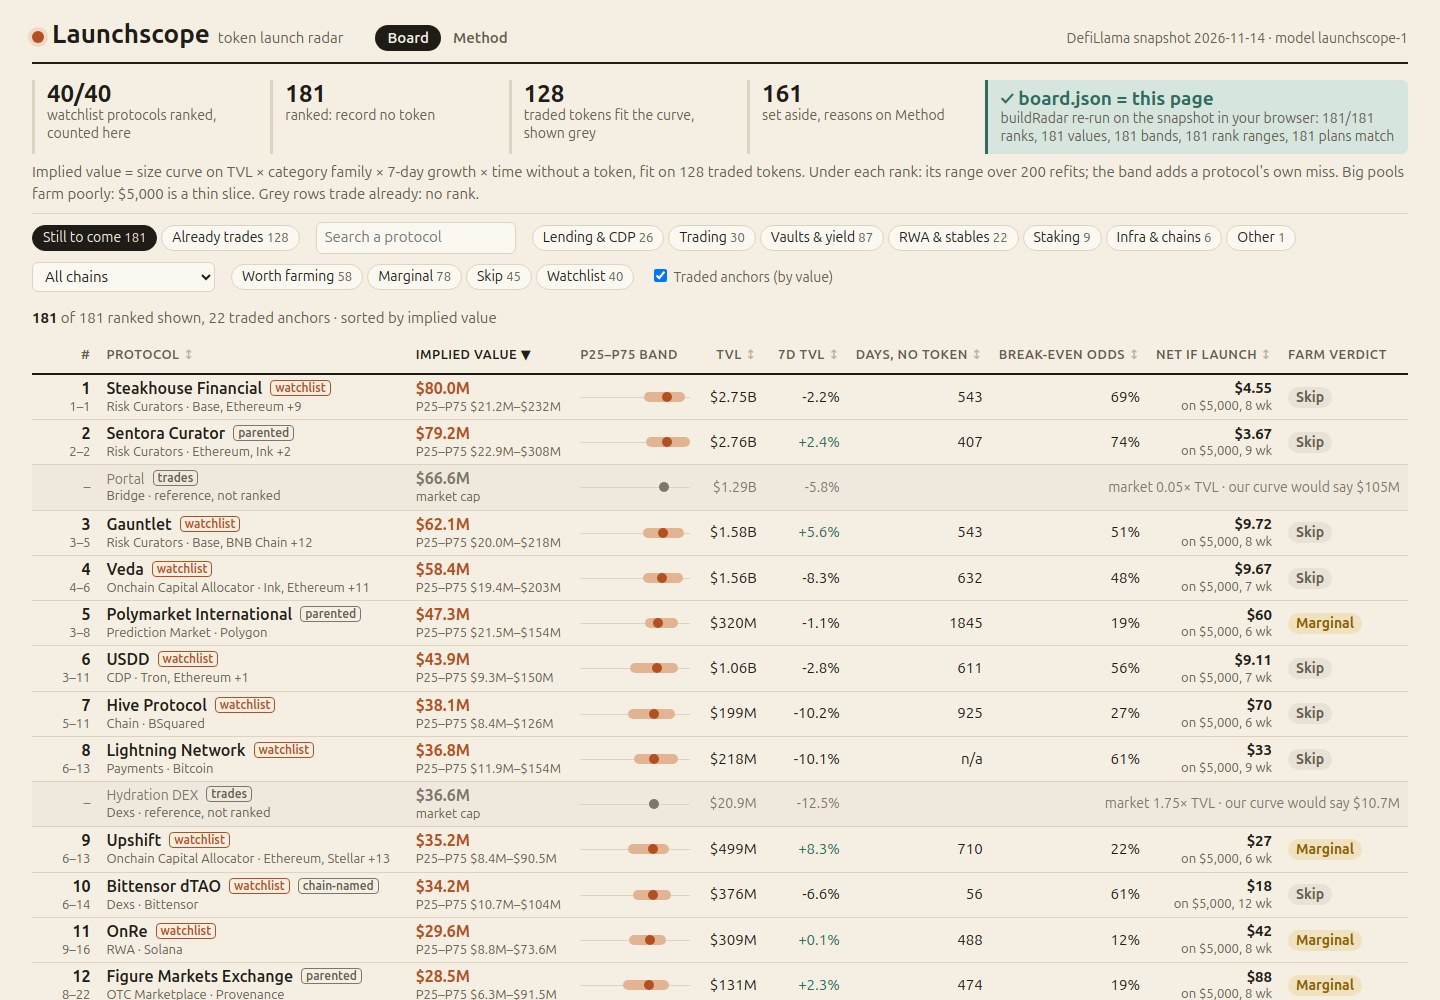
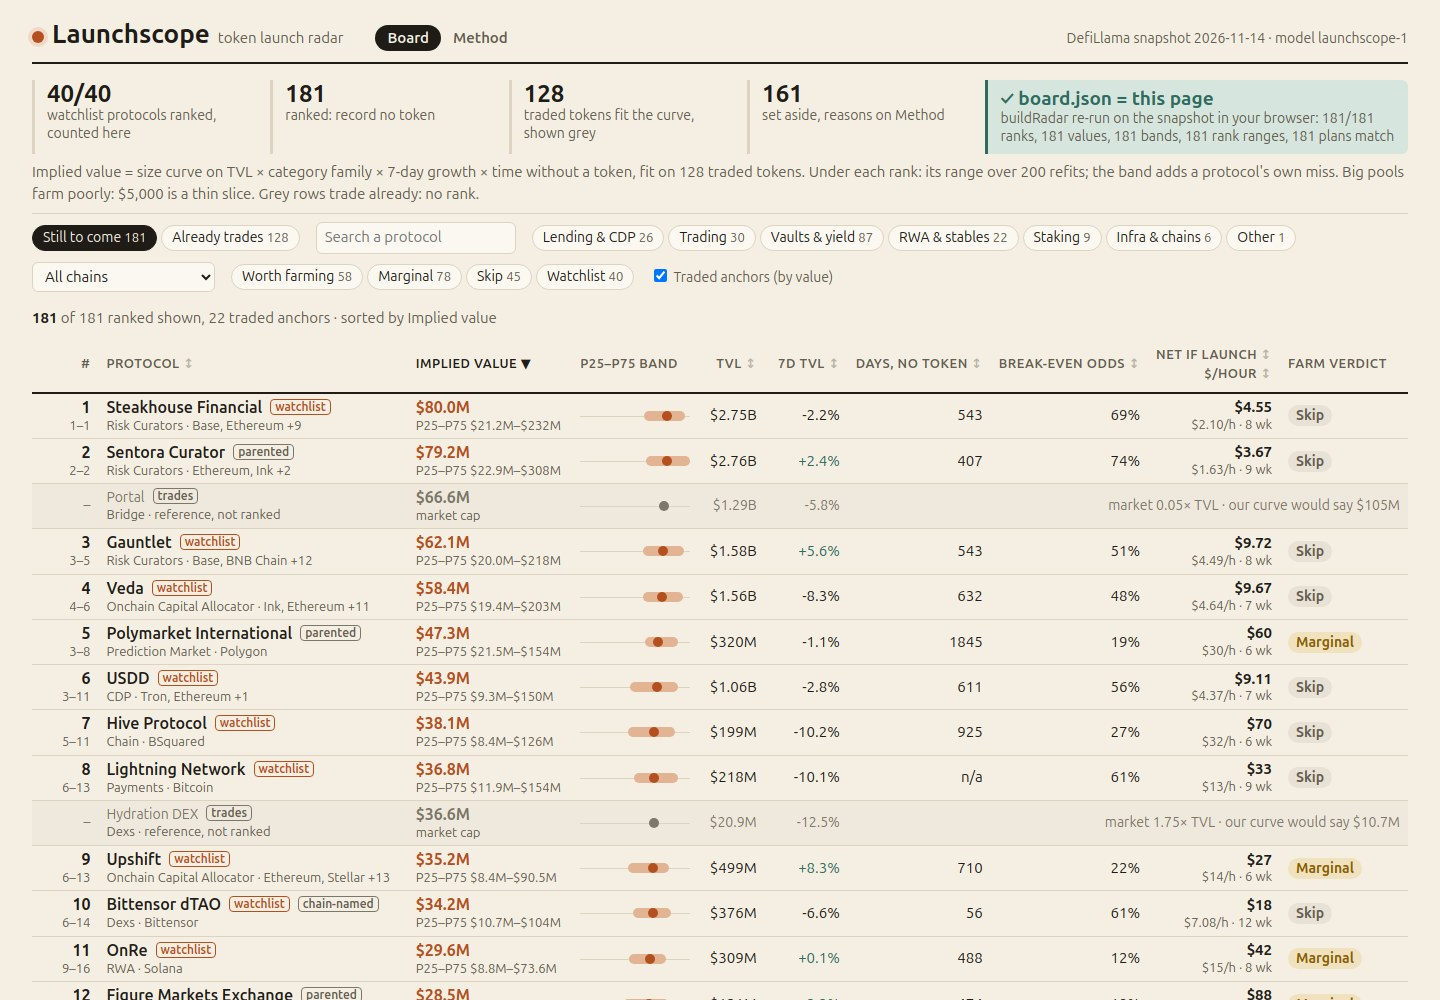
Board and detail: bring back net per hour of your time, sortable
farmPlan returns perHour again (net if a token launches / active hours). The
board shows it under each net figure and sorts by it from a second header
target; the detail totals show it beside the break-even odds.

diff --git a/dashboard/radar.js b/dashboard/radar.js
@@ -37,9 +37,9 @@
   const DEFAULTS = { tab: '', fam: '', chain: '', verdict: '', watch: '', q: '', anchors: '1', sort: 'value', dir: 'desc' };
   const SORTS = {
     value: (r) => r.iv.value, name: (r) => r.name.toLowerCase(), tvl: (r) => r.tvl_usd, growth: (r) => (r.change_7d === null ? -1e9 : r.change_7d),
-    days: (r) => (r.iv.days === null ? -1 : r.iv.days), odds: (r) => r.plan.breakEven, net: (r) => r.plan.net,
+    days: (r) => (r.iv.days === null ? -1 : r.iv.days), odds: (r) => r.plan.breakEven, net: (r) => r.plan.net, perhour: (r) => r.plan.perHour,
   };
-  const HEAD = { name: 'Protocol', value: 'Implied value', tvl: 'TVL', growth: '7d TVL', days: 'Days, no token', odds: 'Break-even odds', net: 'Net if launch' };
+  const HEAD = { name: 'Protocol', value: 'Implied value', tvl: 'TVL', growth: '7d TVL', days: 'Days, no token', odds: 'Break-even odds', net: 'Net if launch', perhour: '$/hour' };
 
   function readHash() {
     const h = decodeURIComponent(location.hash.slice(1));
@@ -103,7 +103,7 @@
   const NOTE_TAG = { off: 'parented', named: 'chain-named', shares: 'name shared' };
   function rowHtml(r) {
     const p = r.plan, tag = r.note && NOTE_TAG[r.note.split(' ')[0]];
-    const net = p.net < 0 ? `<td class="num neg"><b>needs ${L.usd(r.iv.value * p.breakEven)}</b><small>launch value to pay</small></td>` : `<td class="num"><b>${L.usd(p.net)}</b><small>on ${L.usd(p.deposit)}, ${p.weeks} wk</small></td>`;
+    const net = p.net < 0 ? `<td class="num neg"><b>needs ${L.usd(r.iv.value * p.breakEven)}</b><small>launch value to pay</small></td>` : `<td class="num"><b>${L.usd(p.net)}</b><small>${L.usd(p.perHour)}/h · ${p.weeks} wk</small></td>`;
     return `<tr class="ranked" data-slug="${esc(r.slug)}"><td class="rk"><b>${r.rank}</b><small>${r.boot.rankLo}–${r.boot.rankHi}</small></td>
       <td class="name"><a href="#p/${esc(r.slug)}">${esc(r.name)}</a>${r.watch ? '<i class="tag">watchlist</i>' : ''}${tag ? `<i class="tag grey" title="${esc(r.note)}">${tag}</i>` : ''}<small>${esc(r.category || 'no category')} · ${esc(r.chains.slice(0, 2).map(L.chainName).join(', '))}${r.chains.length > 2 ? ` +${r.chains.length - 2}` : ''}</small></td>
       <td class="val"><b>${L.usd(r.iv.value)}</b><small>P25–P75 ${L.usd(r.boot.p25)}–${L.usd(r.boot.p75)}</small></td><td>${bandBar(r)}</td>
@@ -149,7 +149,7 @@
       <div id="results"></div>`;
     renderResults(st);
     $('#view').onclick = (e) => {
-      const b = e.target.closest('button.chip, th[data-s], button.x');
+      const b = e.target.closest('button.chip, [data-s], button.x');
       if (b && b.dataset.k) { st[b.dataset.k] = st[b.dataset.k] === b.dataset.v ? '' : b.dataset.v; return update(st, true); }
       if (b && b.dataset.s) { st.dir = st.sort === b.dataset.s && st.dir === 'desc' ? 'asc' : b.dataset.s === 'odds' || b.dataset.s === 'name' ? 'asc' : 'desc'; st.sort = b.dataset.s; return update(st, true); }
       const tr = e.target.closest('tr.ranked');
@@ -179,9 +179,10 @@
       const label = k === 'fam' ? L.FAMILY_LABEL[st.fam] : k === 'verdict' ? L.VERDICT_LABEL[st.verdict] : k === 'watch' ? 'Watchlist only' : k === 'q' ? `“${st.q}”` : st.chain;
       return `<button class="chip on x" data-k="${k}" data-v="${esc(st[k])}">${esc(label)} ✕</button>`;
     }).join('');
-    const th = (key, cls) => `<th data-s="${key}" class="${cls || ''} ${st.sort === key ? 'sorted' : ''}">${HEAD[key]}${st.sort === key ? (st.dir === 'asc' ? ' ▲' : ' ▼') : ''}</th>`;
-    $('#results').innerHTML = `<div class="status">${active}<span><b>${shown.length}</b> of ${M.rows.length} ranked shown${anchors.length ? `, ${anchors.length} traded anchors` : ''} · sorted by ${HEAD[st.sort].toLowerCase()}</span></div>
-      <table class="board"><thead><tr><th class="rk">#</th>${th('name')}${th('value')}<th>P25–P75 band</th>${['tvl', 'growth', 'days', 'odds', 'net'].map((k) => th(k, 'num')).join('')}<th>Farm verdict</th></tr></thead>
+    const sk = (key) => `<span data-s="${key}" class="${st.sort === key ? 'sorted' : ''}">${HEAD[key]}${st.sort === key ? (st.dir === 'asc' ? ' ▲' : ' ▼') : ''}</span>`;
+    const th = (key, cls) => `<th class="${cls || ''}">${sk(key)}</th>`;
+    $('#results').innerHTML = `<div class="status">${active}<span><b>${shown.length}</b> of ${M.rows.length} ranked shown${anchors.length ? `, ${anchors.length} traded anchors` : ''} · sorted by ${HEAD[st.sort]}</span></div>
+      <table class="board"><thead><tr><th class="rk">#</th>${th('name')}${th('value')}<th>P25–P75 band</th>${['tvl', 'growth', 'days', 'odds'].map((k) => th(k, 'num')).join('')}<th class="num">${sk('net')}<br>${sk('perhour')}</th><th>Farm verdict</th></tr></thead>
       <tbody>${body.join('') || '<tr><td colspan="10" class="empty">No ranked protocol matches these filters; remove a chip above.</td></tr>'}</tbody></table>`;
   }
 
@@ -243,7 +244,7 @@
           <h2>Farm plan <small>${esc(p.chain)} · ${L.usd(p.deposit)} · ${p.weeks} weeks</small><i class="verdict v-${p.verdict}">${L.VERDICT_LABEL[p.verdict]}</i></h2>
           ${timelineSvg(p)}
           <table class="steps"><thead><tr><th>#</th><th>When</th><th>Step</th><th class="num">Cost</th><th class="num">Time</th></tr></thead><tbody>${steps}</tbody></table>
-          <div class="totals"><div><span>Fees and gas</span><b>${L.usd(p.costs)}</b></div><div><span>Income forgone</span><b>${L.usd(p.capitalCost)}</b></div><div><span>Your time</span><b>${Math.round(p.minutes)} min</b></div><div><span>Slice if a token launches</span><b>${L.usd(p.slice)}</b></div><div><span>Break-even launch odds</span><b>${odds(p.breakEven)}</b></div></div>
+          <div class="totals"><div><span>Fees and gas</span><b>${L.usd(p.costs)}</b></div><div><span>Income forgone</span><b>${L.usd(p.capitalCost)}</b></div><div><span>Your time</span><b>${Math.round(p.minutes)} min</b></div><div><span>Slice if launch</span><b>${L.usd(p.slice)}</b></div><div><span>Break-even odds</span><b>${odds(p.breakEven)}</b></div><div><span>Net per hour</span><b>${L.usd(p.perHour)}</b></div></div>
           <ul class="honesty">${L.HONESTY.map((h) => `<li>${esc(h)}</li>`).join('')}</ul>
         </section>
       </div>`;

diff --git a/dashboard/style.css b/dashboard/style.css
@@ -20,9 +20,9 @@ h2 small { font-weight: 400; margin-left: 8px; }
 code { font: 14px var(--mono); background: var(--accent-soft); padding: 0 4px; border-radius: 3px; }
 table { border-collapse: collapse; width: 100%; }
 th { text-align: left; font-size: 13px; text-transform: uppercase; letter-spacing: 0.04em; font-weight: 600; padding: 8px; border-bottom: 2px solid var(--ink); white-space: nowrap; }
-th[data-s] { cursor: pointer; }
-th[data-s]:not(.sorted)::after { content: " ↕"; opacity: 0.4; }
-th.sorted, .status b { color: var(--ink); }
+[data-s] { cursor: pointer; }
+[data-s]:not(.sorted)::after { content: " ↕"; opacity: 0.4; }
+.sorted, .status b { color: var(--ink); }
 td { padding: 4px 8px; border-bottom: 1px solid var(--rule); }
 .num { text-align: right; }
 
@@ -123,7 +123,7 @@ td { padding: 4px 8px; border-bottom: 1px solid var(--rule); }
 .timeline .stopt { fill: var(--red); }
 .steps td { line-height: 1.3; }
 .steps .num, .steps .when { white-space: nowrap; }
-.totals { display: grid; grid-template-columns: repeat(5, 1fr); gap: 8px; margin: 8px 0; padding-top: 8px; border-top: 2px solid var(--plan); }
+.totals { display: grid; grid-template-columns: repeat(6, 1fr); gap: 8px; margin: 8px 0; padding-top: 8px; border-top: 2px solid var(--plan); }
 .assume { margin: 16px 0 0; }
 .honesty { margin: 8px 0 0; padding: 8px 16px 8px 32px; background: var(--plan-soft); border-radius: 6px; }
 

diff --git a/dashboard/model.js b/dashboard/model.js
@@ -10,8 +10,8 @@
     centerLogTvl: 8, // the curve is centred at $100M of TVL
     familyShrinkK: 8, // pseudo-tokens pulling each family offset toward zero
     growthWeight: 0.5, // +10% TVL in 7 days tilts value by +5%...
-    growthMin: 0.8, // ...never below x0.80
-    growthMax: 1.25, // ...never above x1.25
+    growthMin: 0.8, // ...within x0.80 to x1.25
+    growthMax: 1.25,
     seasonDepth: 0.4, // a protocol tracked for 0 days is discounted 40%...
     seasonDays: 240, // ...and the discount fades with this time constant (days)
     unknownDays: 365, // no listed_at: assume one year
@@ -383,7 +383,7 @@
     const breakEven = (costs + capitalCost) / slice;
     const odds = Math.round(breakEven * 100); // the verdict reads the odds as shown
     const verdict = odds <= ASSUME.farmOdds * 100 ? 'farm' : odds <= ASSUME.marginalOdds * 100 ? 'marginal' : 'skip';
-    return { chain: cn, gas, asset, deposit, weeks, drop, stopTvl, steps, costs, minutes, carry, capitalCost, slice, net, breakEven, verdict };
+    return { chain: cn, gas, asset, deposit, weeks, drop, stopTvl, steps, costs, minutes, carry, capitalCost, slice, net, breakEven, verdict, perHour: net / (minutes / 60) };
   }
 
   const VERDICT_LABEL = { farm: 'Worth farming', marginal: 'Marginal', skip: 'Skip' };
